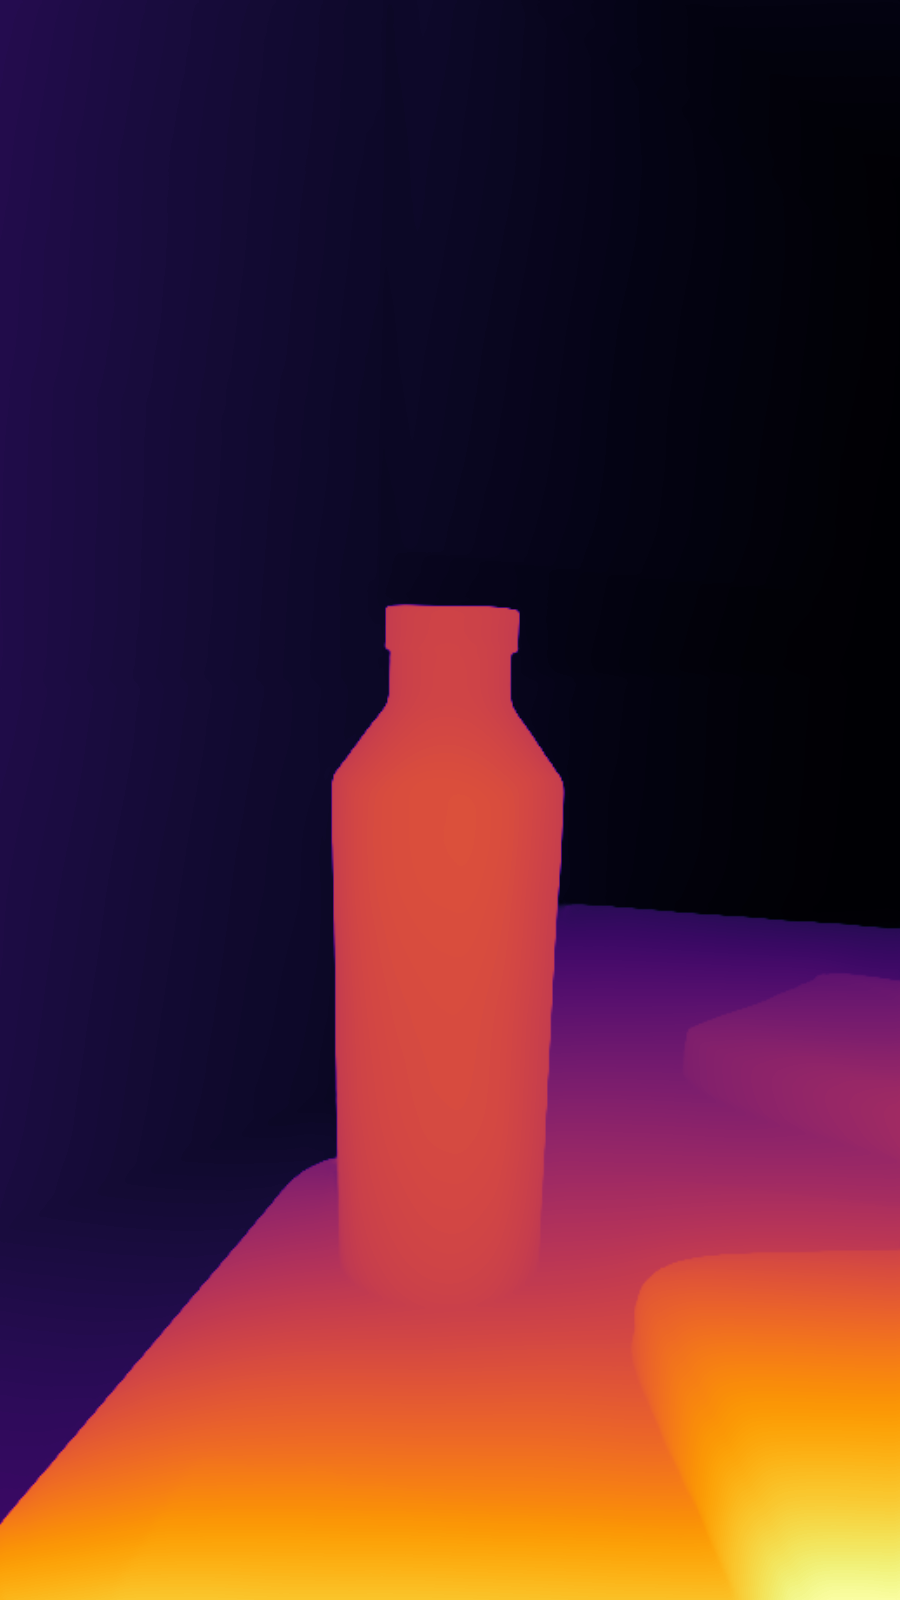
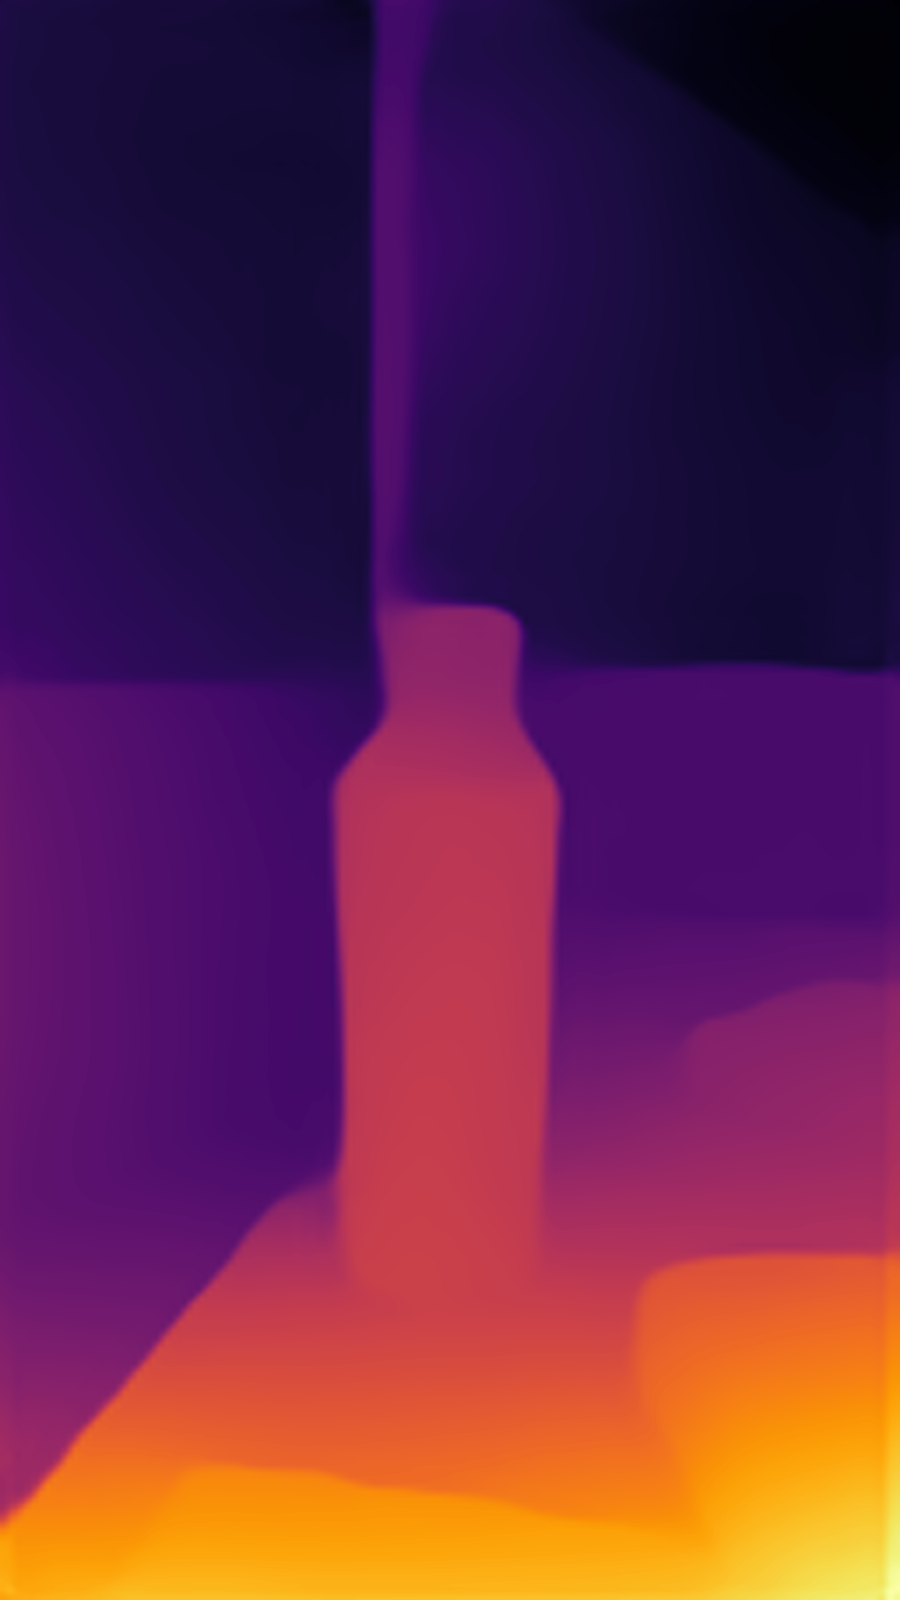
update

diff --git a/gyro-compare.html b/gyro-compare.html
@@ -213,10 +213,10 @@ void main() {
           ? options.smoothingFactor : 0.1;
         // Overscan: fraction of image cropped on each side to hide edge artifacts.
         this._overscan = (options && options.overscan != null)
-          ? options.overscan : 0.10;
+          ? options.overscan : 0.05;
         // FgScale: foreground zoom factor — near pixels scale up slightly to cover background edges.
         this._fgScale = (options && options.fgScale != null)
-          ? options.fgScale : 0.02;
+          ? options.fgScale : 0.04;
 
         this._currentTilt      = { x: 0, y: 0 };
         this._targetTilt       = { x: 0, y: 0 };
@@ -942,9 +942,9 @@ void main() {
         this._smoothingFactor  = (options.smoothingFactor != null)
           ? options.smoothingFactor : 0.1;
         this._overscan         = (options.overscan != null)
-          ? options.overscan : 0.10;
+          ? options.overscan : 0.05;
         this._fgScale          = (options.fgScale != null)
-          ? options.fgScale : 0.02;
+          ? options.fgScale : 0.04;
 
         this._targetTilt       = { x: 0, y: 0 };
         this._activeController = null;

diff --git a/gyro-parallax.html b/gyro-parallax.html
@@ -155,10 +155,10 @@ void main() {
           ? options.smoothingFactor : 0.1;
         // Overscan: fraction of image cropped on each side to hide edge artifacts.
         this._overscan = (options && options.overscan != null)
-          ? options.overscan : 0.10;
+          ? options.overscan : 0.05;
         // FgScale: foreground zoom factor — near pixels scale up slightly to cover background edges.
         this._fgScale = (options && options.fgScale != null)
-          ? options.fgScale : 0.02;
+          ? options.fgScale : 0.04;
 
         this._currentTilt      = { x: 0, y: 0 };
         this._targetTilt       = { x: 0, y: 0 };
@@ -884,9 +884,9 @@ void main() {
         this._smoothingFactor  = (options.smoothingFactor != null)
           ? options.smoothingFactor : 0.1;
         this._overscan         = (options.overscan != null)
-          ? options.overscan : 0.10;
+          ? options.overscan : 0.05;
         this._fgScale          = (options.fgScale != null)
-          ? options.fgScale : 0.02;
+          ? options.fgScale : 0.04;
 
         this._targetTilt       = { x: 0, y: 0 };
         this._activeController = null;